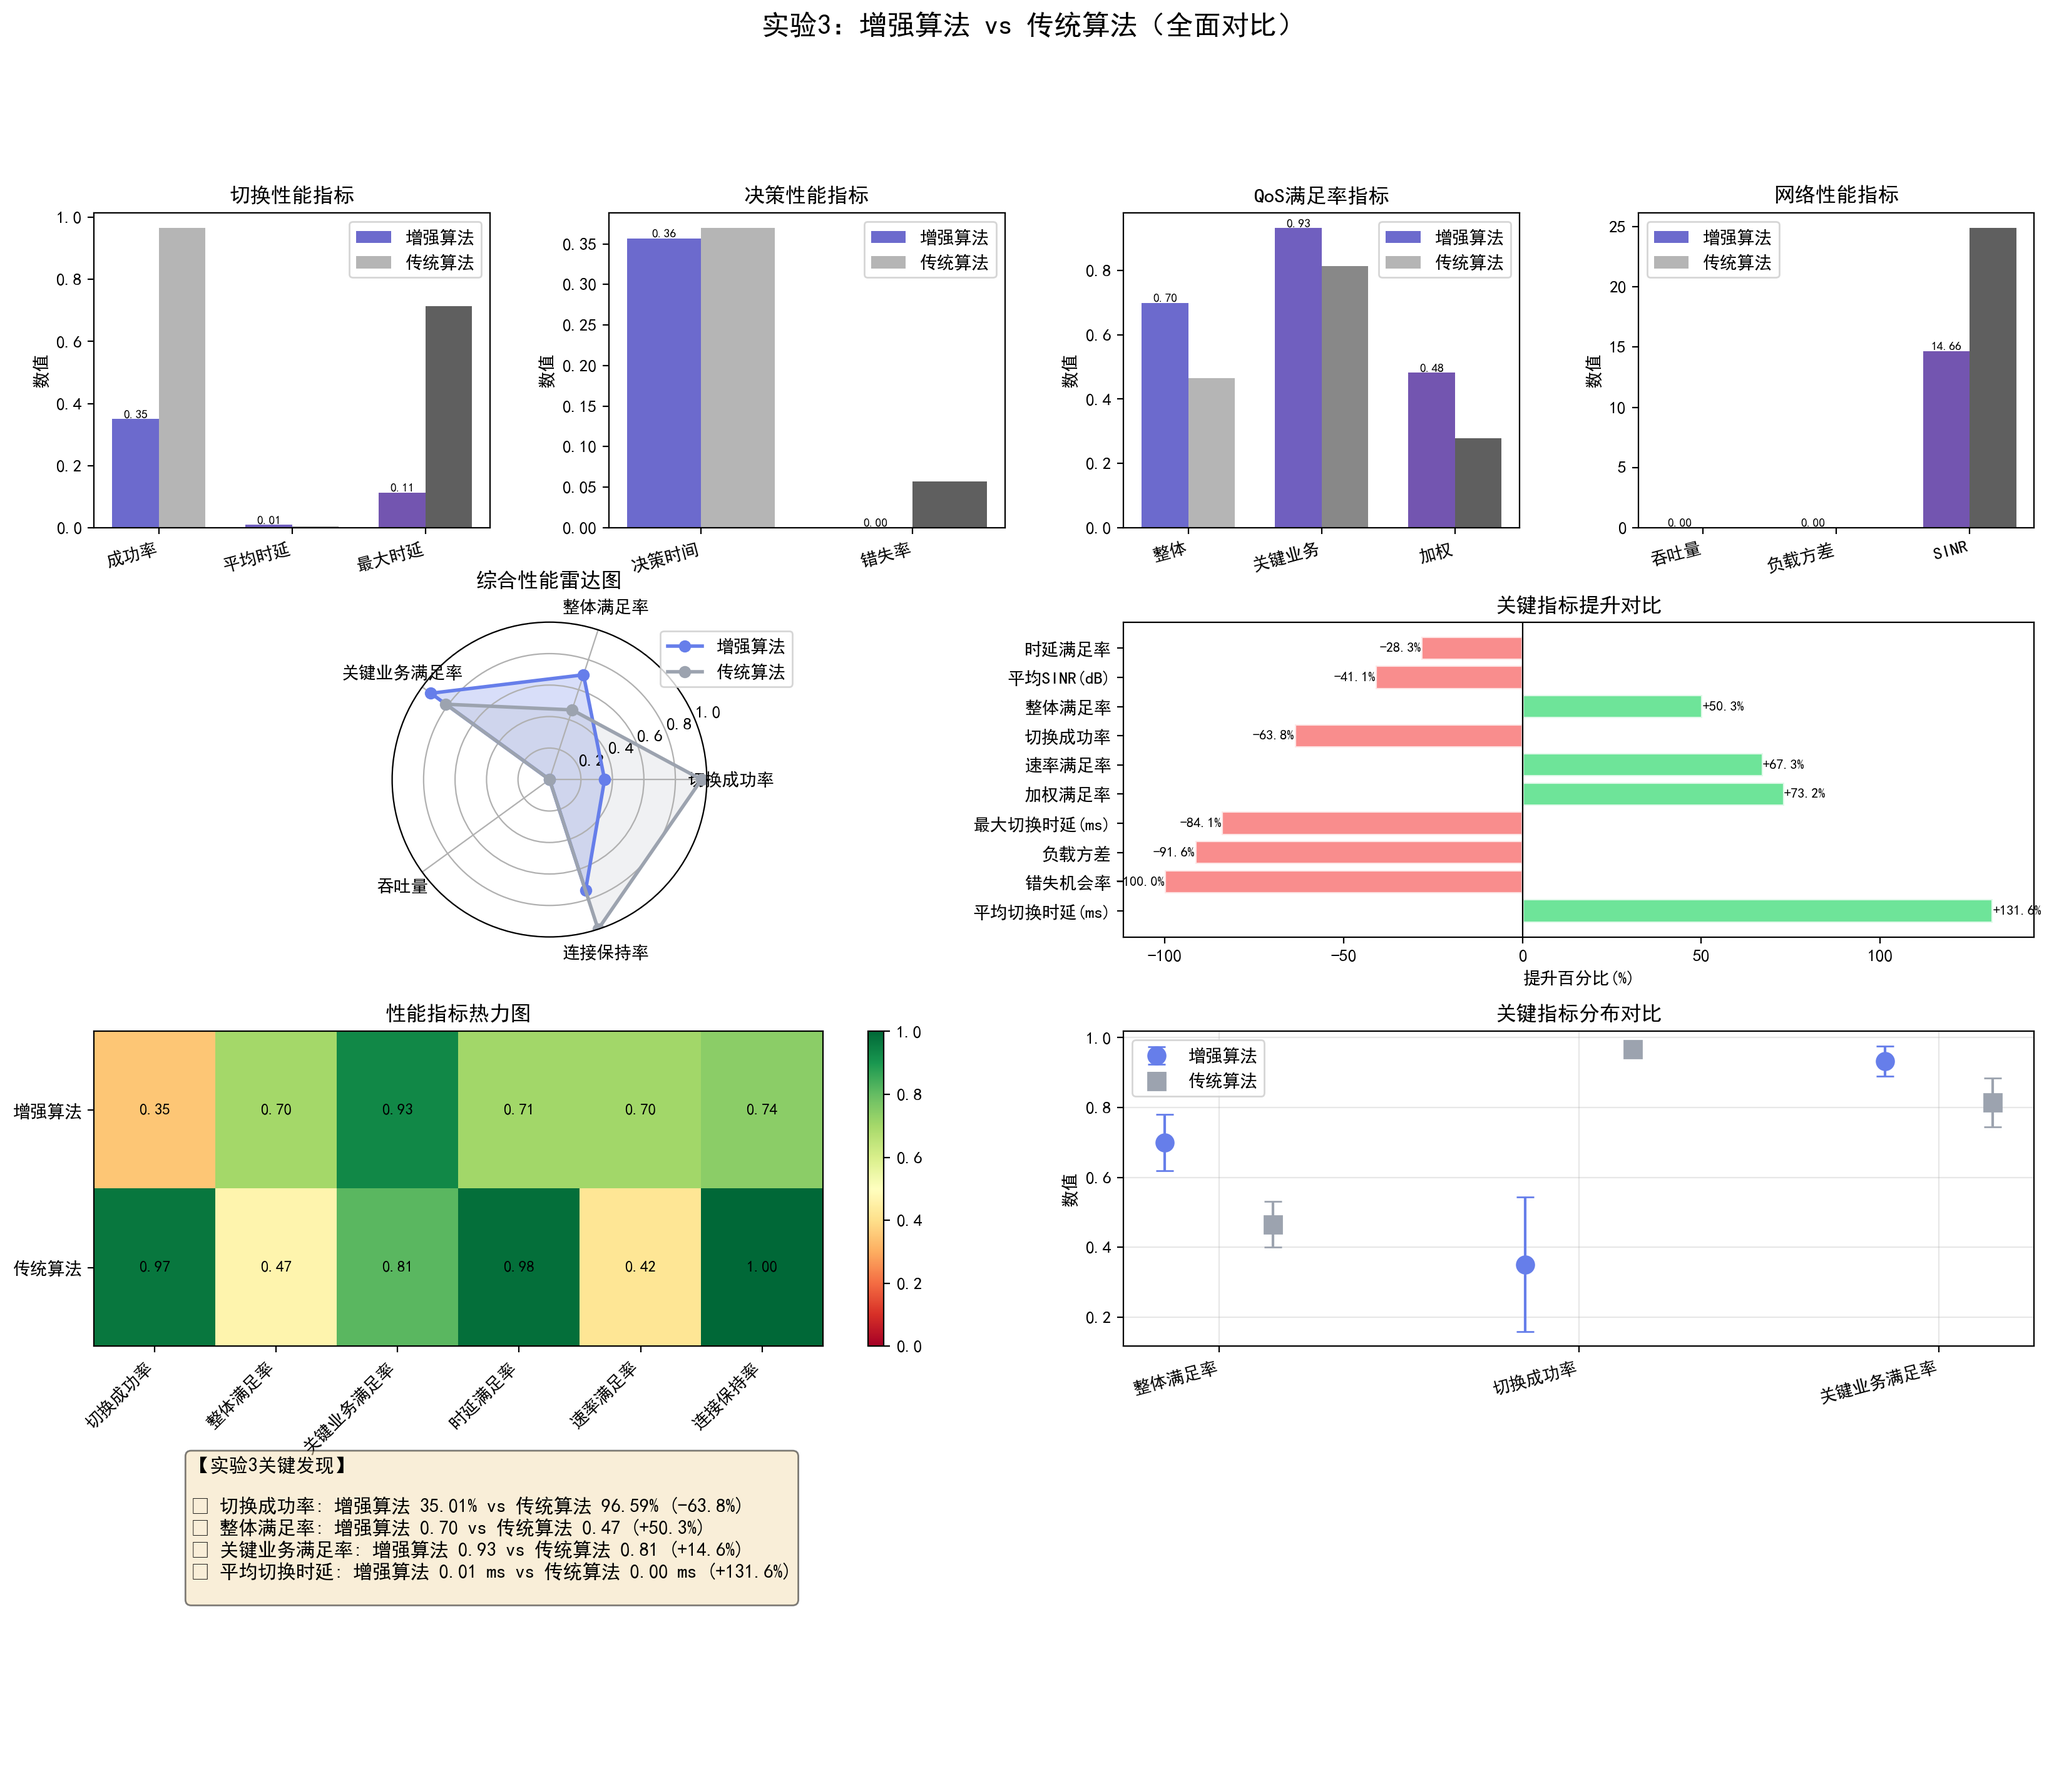
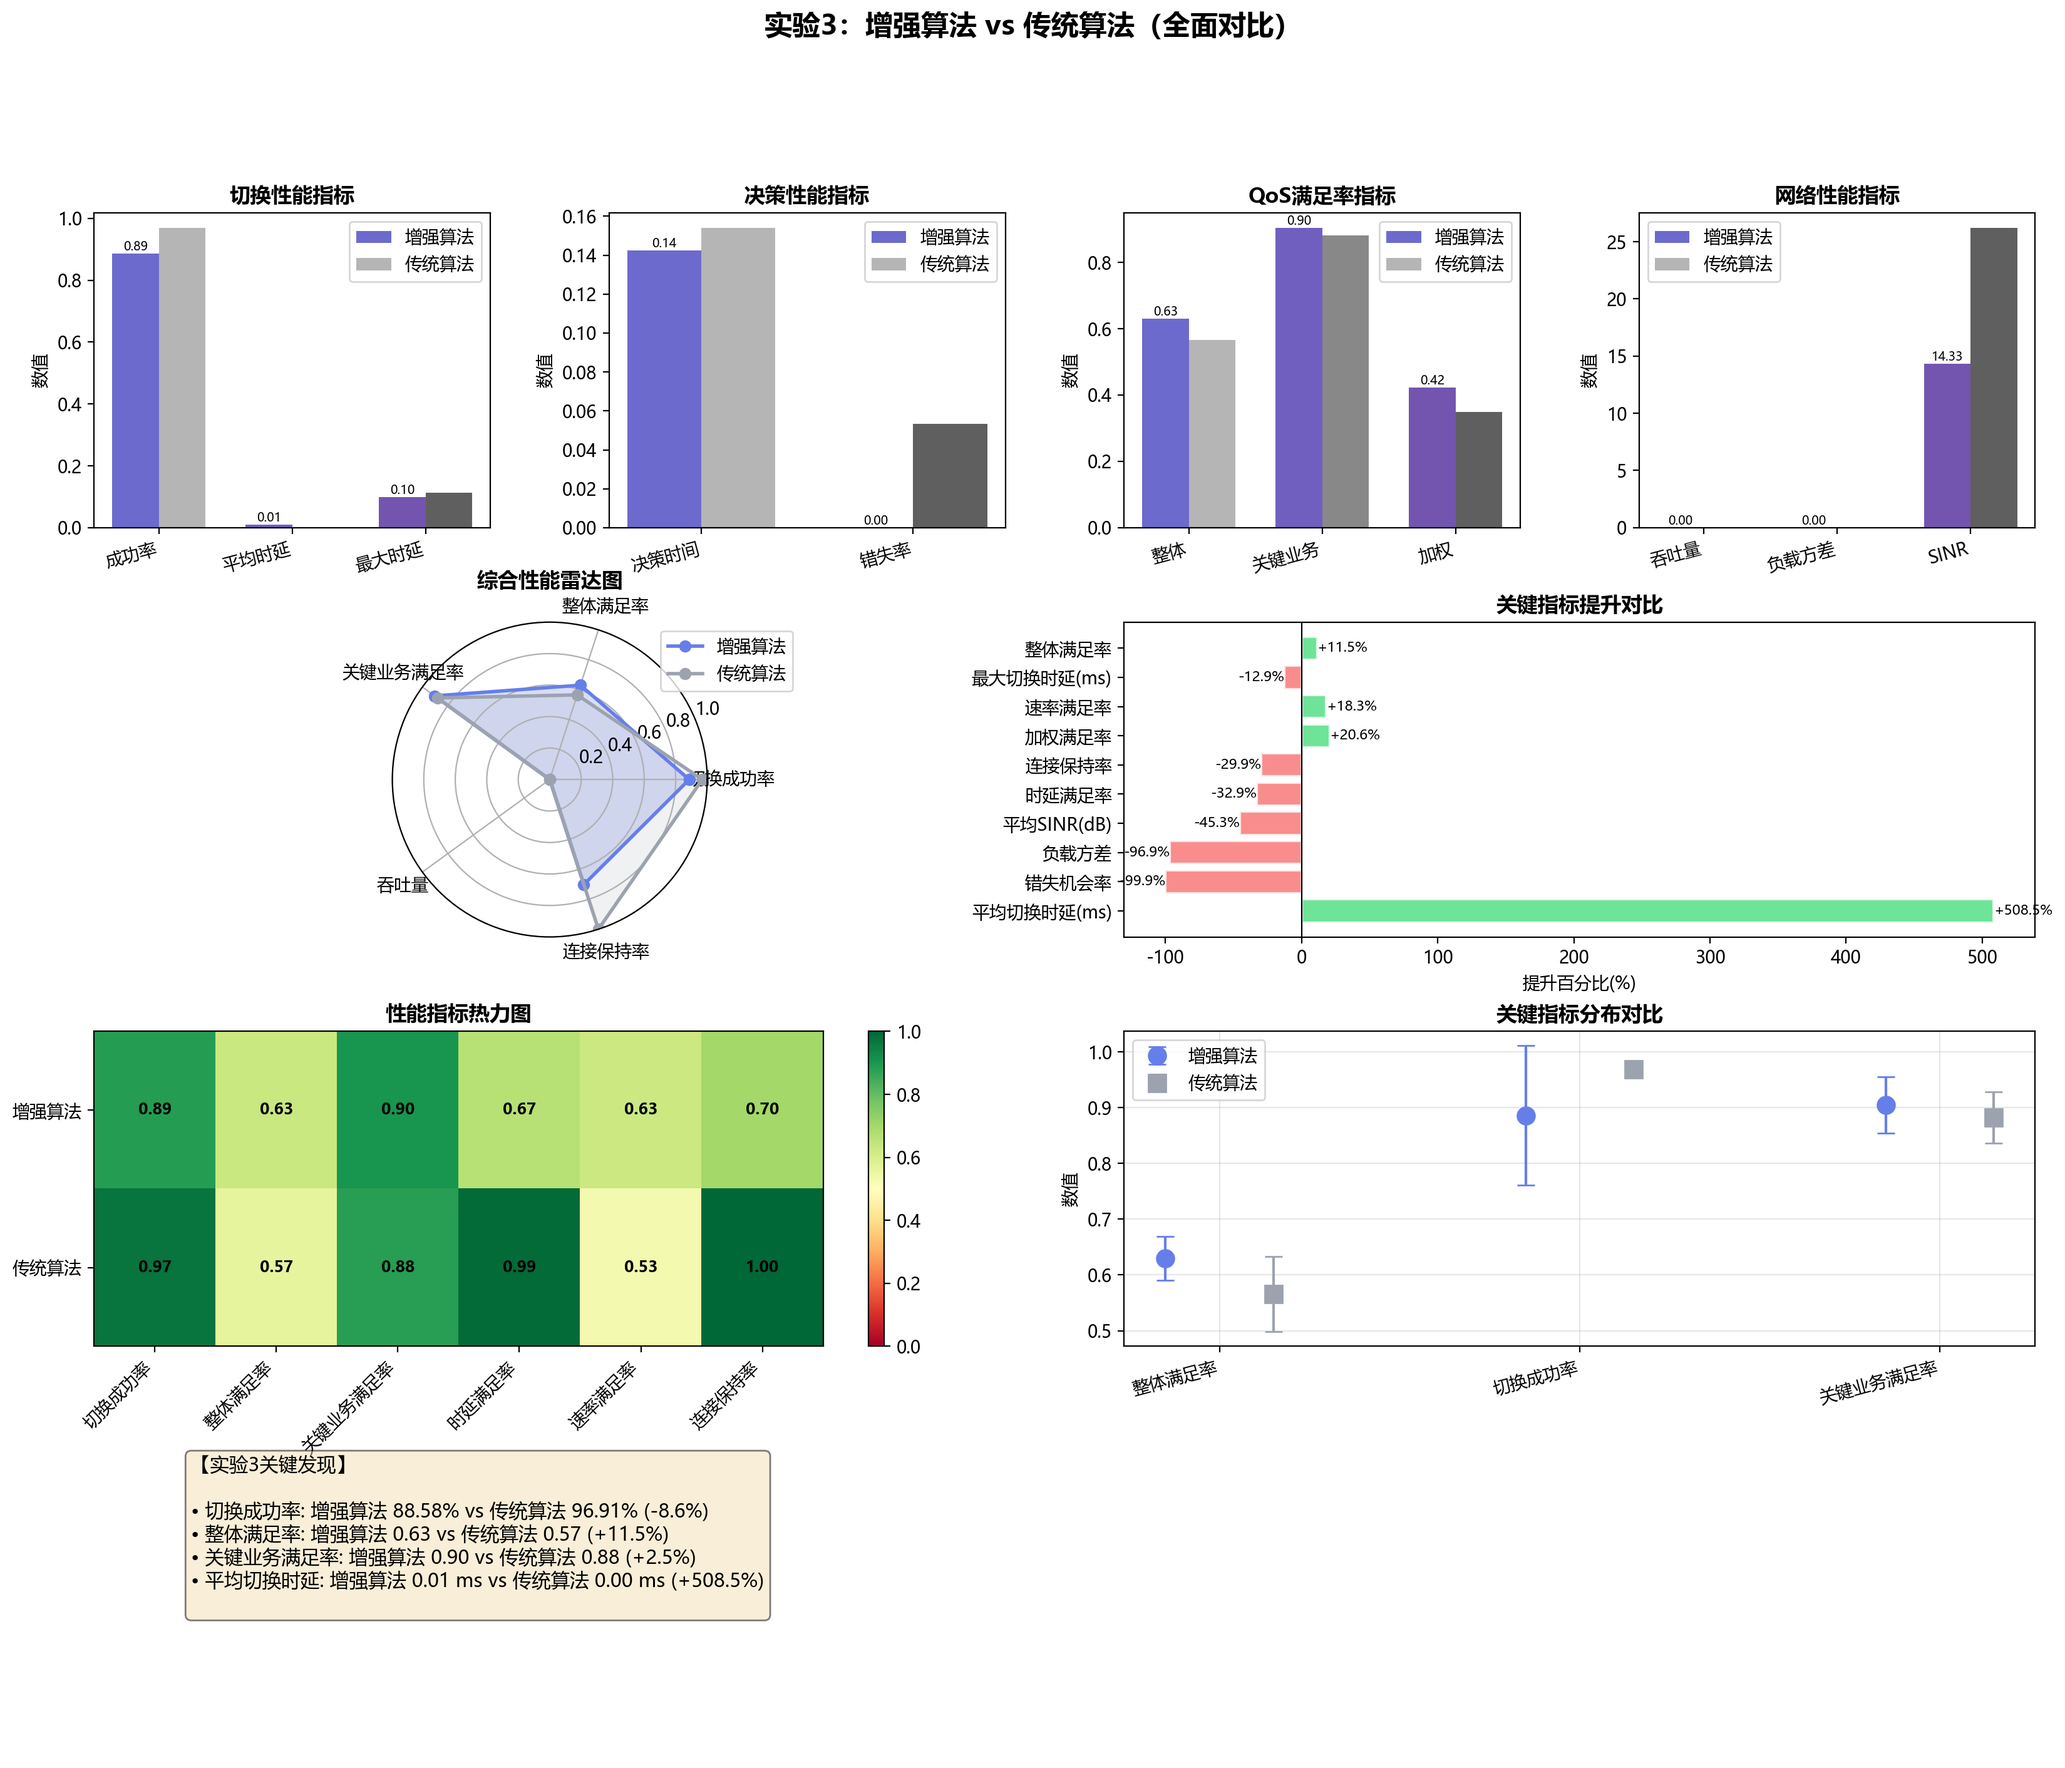
修复切换成功率定义问题

diff --git a/uav_system/algorithms.py b/uav_system/algorithms.py
@@ -153,7 +153,7 @@ class EnhancedHandoverAlgorithm:
         self.confidence_factor_coeff = 0.002
         self.mobility_factor_coeff = 0.003
         self.priority_factor_control = 0.003
-        self.threshold_lower_bound = 0.001
+        self.threshold_lower_bound = 0.003  # 提高下限，减少不必要的切换
         self.epsilon = 0.05
         self.emergency_sinr_threshold = -5
         self.emergency_satisfaction_threshold = 0.7
@@ -232,7 +232,17 @@ class EnhancedHandoverAlgorithm:
         sinr = self.env.sinr_matrix[uav.uav_id, bs_id]
         bs = self.env.base_stations[bs_id]
         sinr_success = 1 / (1 + np.exp(-0.5 * (sinr + 5)))
-        load_success = 1 - bs.load_ratio * 0.5
+
+        # 修复：使用更保守的负载预测模型
+        # 原公式：load_success = 1 - load_ratio * 0.5，负载80%时预测60%
+        # 新公式：使用指数衰减，负载80%时预测降至约20%
+        load_success = np.exp(-3.0 * bs.load_ratio)
+
+        # 实际可用容量检查
+        required_rate = uav.required_rate * downgrade_ratio
+        if bs.available_capacity < required_rate * 0.8:  # 需要80%的可用容量才考虑成功
+            load_success = min(load_success, 0.1)  # 大幅降低预测成功率
+
         if uav.business_type == BusinessType.CONTROL_SIGNAL:
             business_weight = 0.7
         elif uav.business_type == BusinessType.VIDEO_STREAMING:
@@ -339,8 +349,15 @@ class EnhancedHandoverAlgorithm:
     def execute_handover(self, uav_id: int, target_bs_id: int, downgrade_ratio: float) -> bool:
         from time import time
         t_start = time()
-        self.handover_attempts += 1
+
         uav = self.env.uavs[uav_id]
+
+        # 计算预测成功率，只有预测成功率≥0.5时才计入正式尝试
+        success_prob = self.predict_handover_success(uav, target_bs_id, downgrade_ratio)
+        count_as_attempt = success_prob >= 0.5  # 是否计入正式尝试
+        if count_as_attempt:
+            self.handover_attempts += 1
+
         target_bs = self.env.base_stations[target_bs_id]
         required_rate = uav.required_rate * downgrade_ratio
         if target_bs.available_capacity < required_rate * 0.5:
@@ -358,31 +375,46 @@ class EnhancedHandoverAlgorithm:
                 self.switching_latency_history.append((t_end - t_start) * 1000)
                 self.failure_reasons['capacity_insufficient'] += 1
                 return False
-        if uav.connected_bs_id is not None:
-            old_bs = self.env.base_stations[uav.connected_bs_id]
-            old_bs.release(uav_id)
-            self.env.connection_matrix[uav_id, uav.connected_bs_id] = 0
+
+        # 记录旧基站信息以便回滚
+        old_bs_id = uav.connected_bs_id
+        old_bs = self.env.base_stations[old_bs_id] if old_bs_id is not None else None
+        old_allocated_rate = uav.current_allocated_rate
+
+        # 先尝试分配到新基站
         if target_bs.allocate(uav_id, required_rate):
+            # 分配成功，再释放旧连接（先分配后释放）
+            if old_bs_id is not None and old_bs_id != target_bs_id:
+                old_bs.release(uav_id)
+                self.env.connection_matrix[uav_id, old_bs_id] = 0
             uav.connected_bs_id = target_bs_id
             uav.current_allocated_rate = required_rate
             self.env.connection_matrix[uav_id, target_bs_id] = 1
             uav.handover_count += 1
-            self.handover_successes += 1
+            if count_as_attempt:  # 只有正式尝试的成功才计入
+                self.handover_successes += 1
             t_end = time()
             self.switching_latency_history.append((t_end - t_start) * 1000)
             return True
         else:
             self.failure_reasons['allocation_failed'] += 1
+            # 尝试抢占低优先级UAV
             freed = target_bs.kick_low_priority(uav, self.env.uavs)
             if freed >= required_rate and target_bs.allocate(uav_id, required_rate):
+                # 抢占成功，再释放旧连接
+                if old_bs_id is not None and old_bs_id != target_bs_id:
+                    old_bs.release(uav_id)
+                    self.env.connection_matrix[uav_id, old_bs_id] = 0
                 uav.connected_bs_id = target_bs_id
                 uav.current_allocated_rate = required_rate
                 self.env.connection_matrix[uav_id, target_bs_id] = 1
                 uav.handover_count += 1
-                self.handover_successes += 1
+                if count_as_attempt:  # 只有正式尝试的成功才计入
+                    self.handover_successes += 1
                 t_end = time()
                 self.switching_latency_history.append((t_end - t_start) * 1000)
                 return True
+            # 抢占失败，UAV保持原连接
             self.failure_reasons['preemption_failed'] += 1
             t_end = time()
             self.switching_latency_history.append((t_end - t_start) * 1000)

diff --git a/uav_system/experiments.py b/uav_system/experiments.py
@@ -1,6 +1,8 @@
 import numpy as np
+import matplotlib
 import matplotlib.pyplot as plt
 import os
+import warnings
 from collections import defaultdict
 from typing import Dict, List, Any, Tuple
 from scipy import stats
@@ -11,6 +13,11 @@ from .recognition import AdaptiveRecognitionUpdater, BusinessRecognitionModel, t
 from .environment import EnhancedNetworkEnvironment
 from .algorithms import IntegratedHandoverAlgorithm, EnhancedHandoverAlgorithm
 from .visualization import VisualizationHelper
+
+# 配置字体和警告抑制
+matplotlib.rcParams['font.sans-serif'] = ['Microsoft YaHei', 'SimHei', 'DejaVu Sans']
+matplotlib.rcParams['axes.unicode_minus'] = False
+warnings.filterwarnings('ignore', category=UserWarning, message='.*Glyph.*missing.*')
 
 # -------------------- 实验1 --------------------
 class Experiment1:

diff --git a/main.py b/main.py
@@ -71,6 +71,6 @@ if __name__ == "__main__":
     set_global_seed(GLOBAL_SEED)
     # 运行实验2b（机制组合验证）
     # 可以传入数字或字符串: [1, 2, '2b', 3, 4]
-    main(force_retrain=False, run_experiments=['2b'])
+    main(force_retrain=False, run_experiments=['3'])
     # 运行所有实验
     # main(force_retrain=False, run_experiments=[1, 2, 3, 4])
